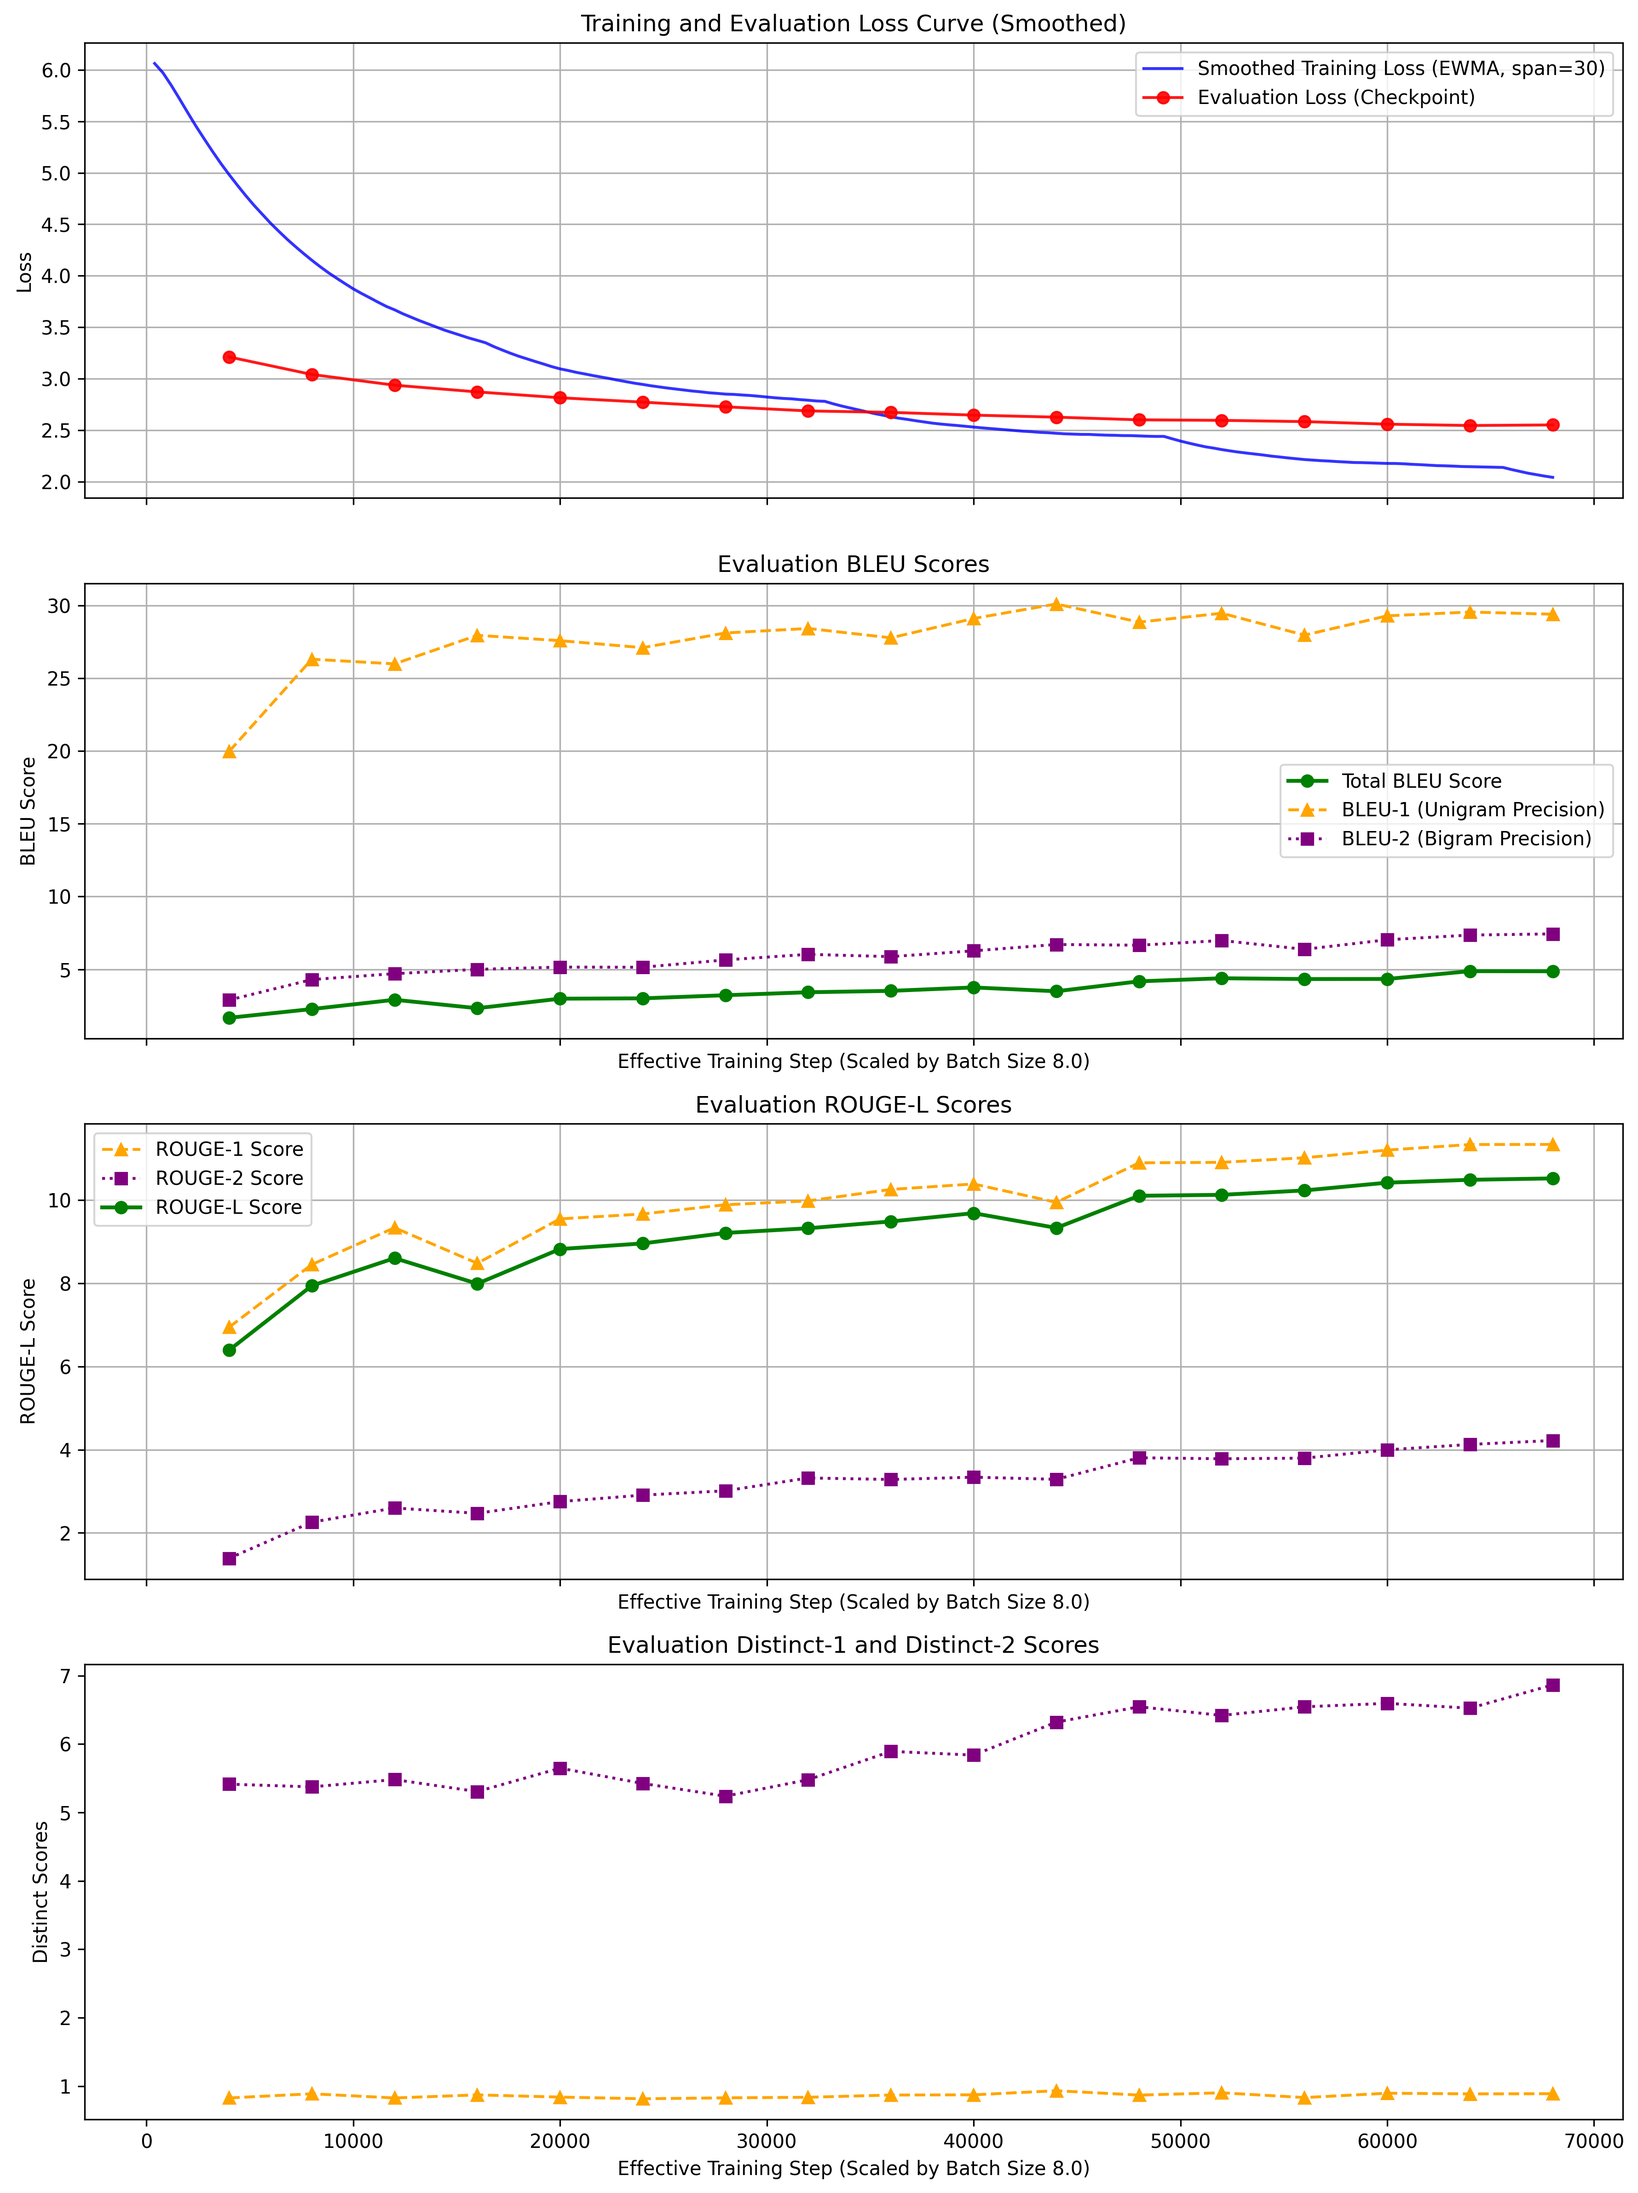
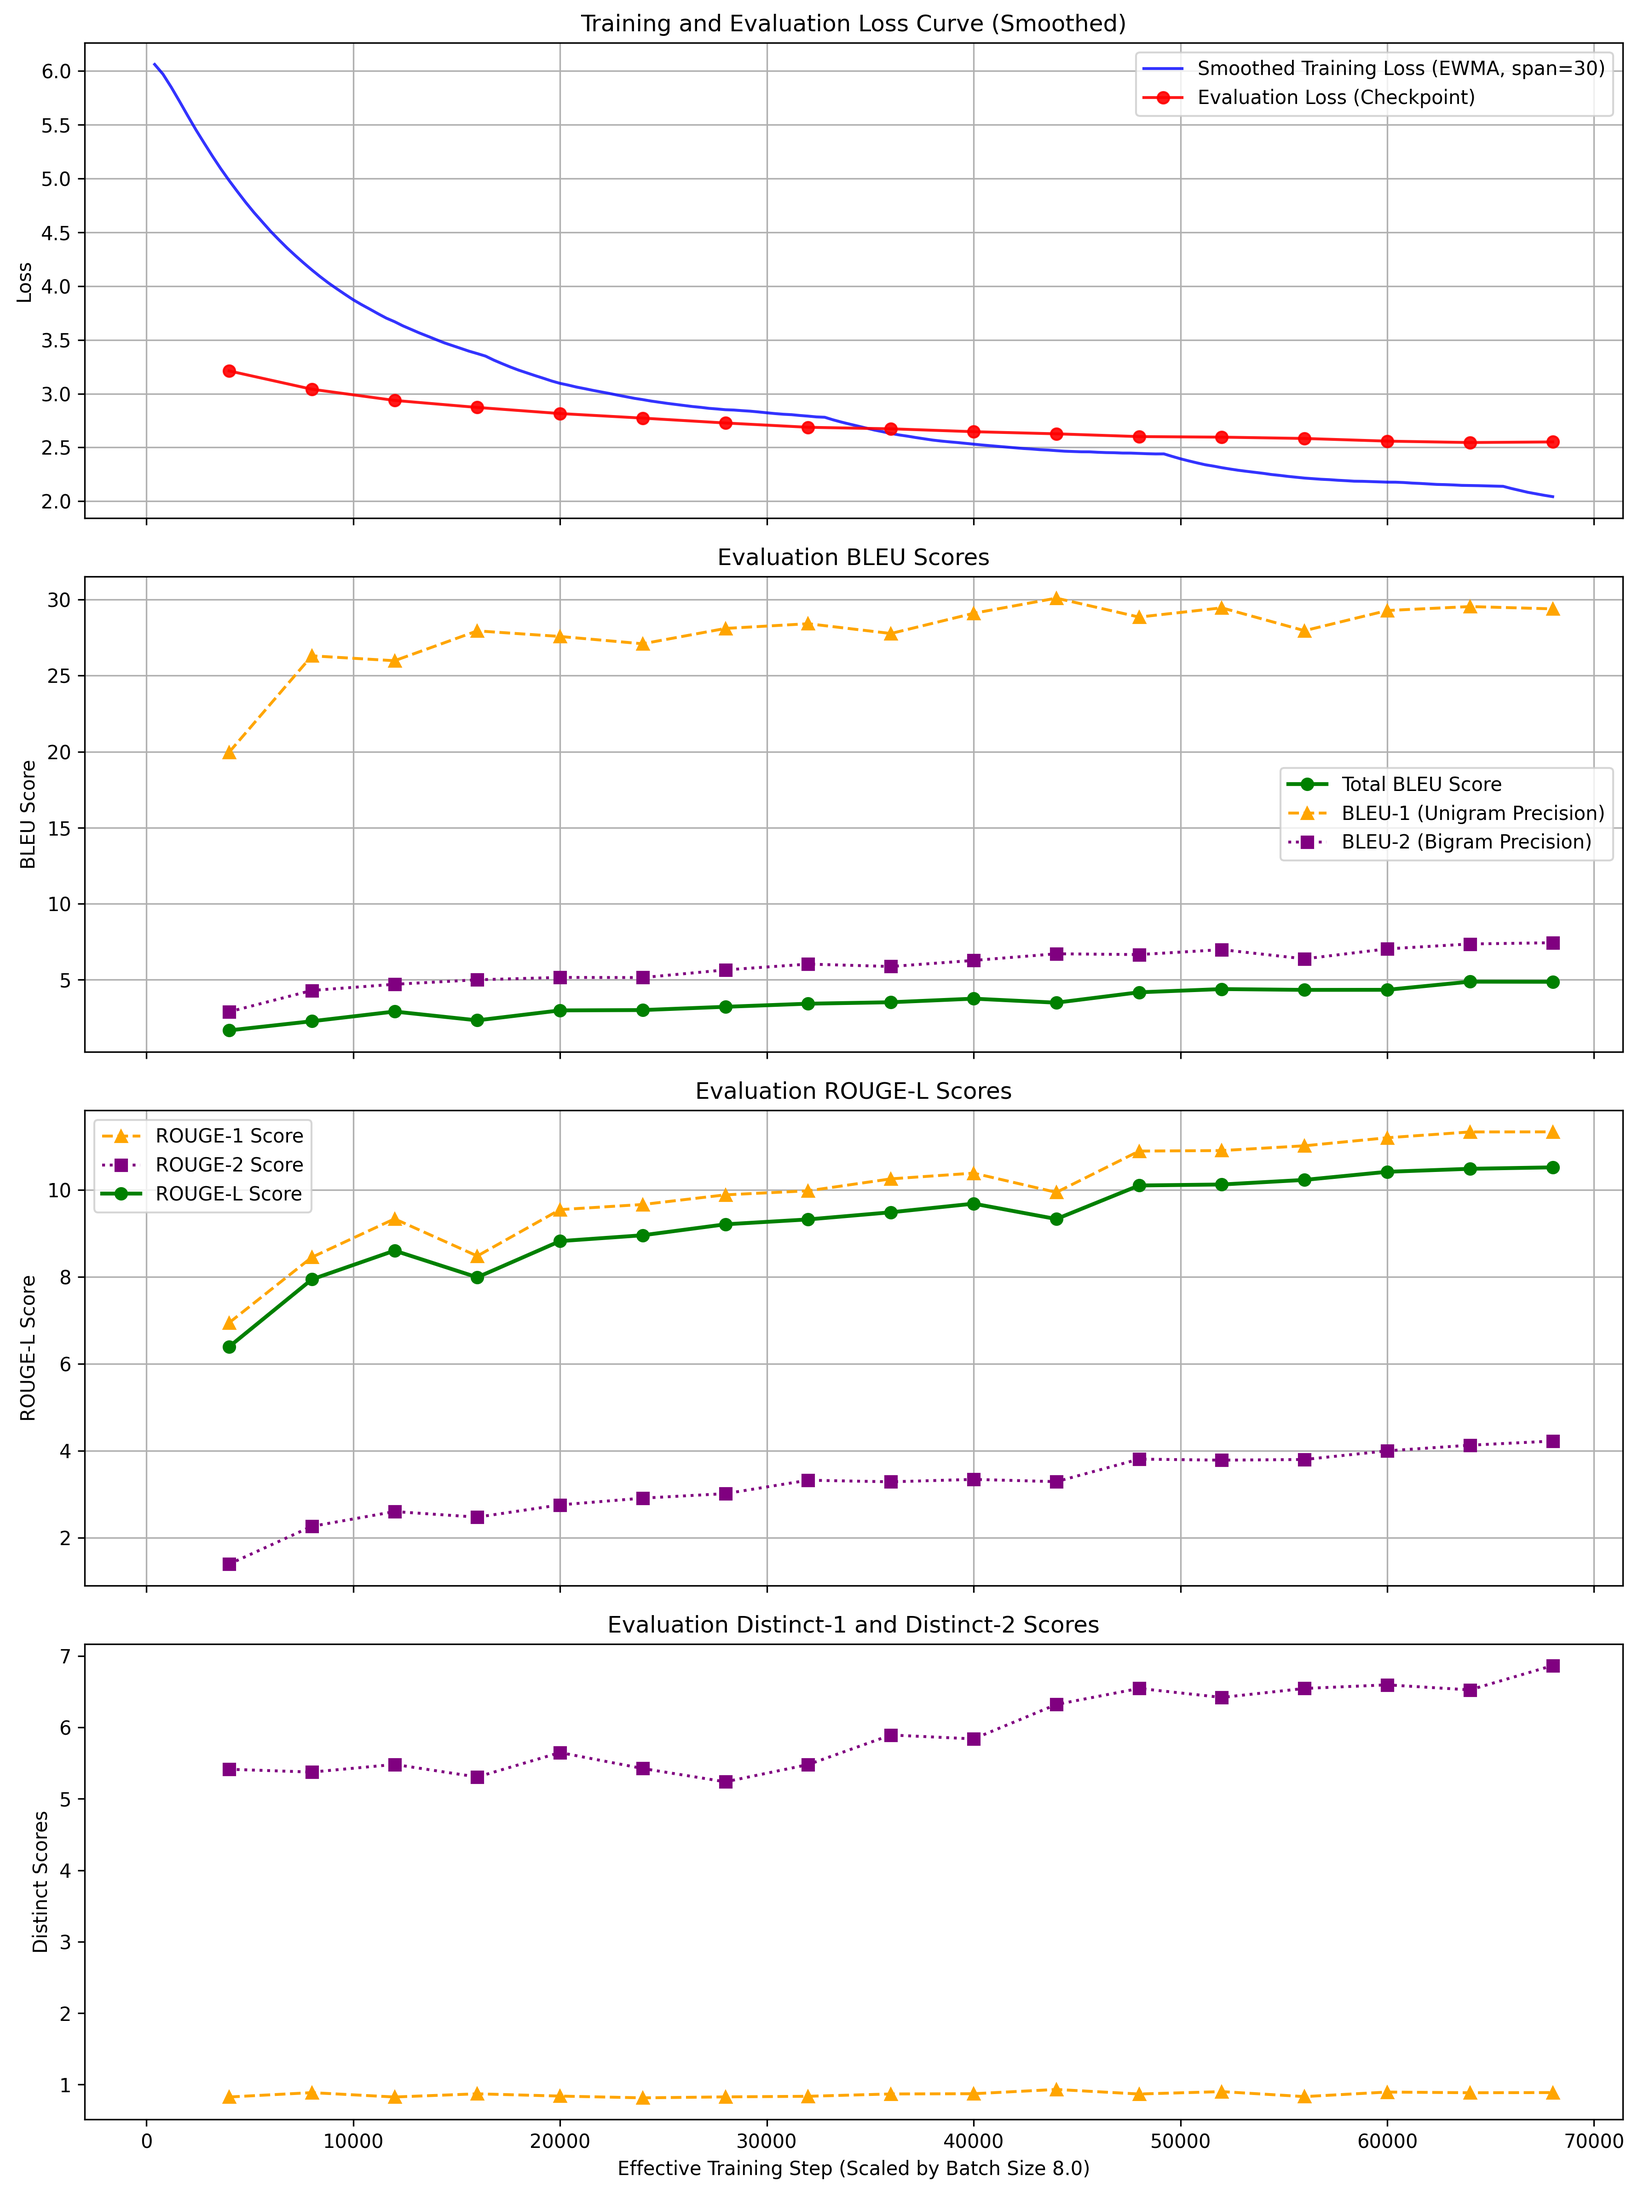
fix loss_curves

diff --git a/finetune_notationed.py b/finetune_notationed.py
@@ -440,8 +440,8 @@ if __name__ == "__main__":
 
     ##ZY 251104 增加功能 从检查点接着训练 （注意！！ 请在从更新文件前备份自己训练时设置的参数）
     #resume_training_from_checkpoint = "fine_tune_checkpoints/m2m100_1_2b_multilingual"
-    resume_training_from_checkpoint = None
-    #resume_training_from_checkpoint = "./fine_tune_checkpoints/mt5_finetune/checkpoint-10000" #从某个特定检查点继续训练
+    #resume_training_from_checkpoint = None
+    resume_training_from_checkpoint = "fine_tune_checkpoints/m2m100_1_2b_multilingual/checkpoint-8500" #从某个特定检查点继续训练
 
     ## 你可以在CMD/bash用huggingface-cli下载，也可以直接把模型名称填到model_name_or_path里面
     ## huggingface-cli download google/mt5-base --local-dir ./models

diff --git a/loss_curves.py b/loss_curves.py
@@ -71,7 +71,7 @@ ax1.grid(True)
 
 # --- 子图 2: BLEU 指标曲线 ---
 ax2.set_title('Evaluation BLEU Scores')
-ax2.set_xlabel(f'Effective Training Step (Scaled by Batch Size {train_batch_size})')
+#与后续公用x轴
 ax2.set_ylabel('BLEU Score')
 if not eval_df.empty:
     # 绘制 eval_bleu (总分数)
@@ -101,7 +101,6 @@ ax2.grid(True)
 
 # --- 子图 3: RoUGE-L 指标曲线 ---
 ax3.set_title('Evaluation ROUGE-L Scores')
-ax3.set_xlabel(f'Effective Training Step (Scaled by Batch Size {train_batch_size})')
 ax3.set_ylabel('ROUGE-L Score')
 if not eval_df.empty:
     # 绘制 eval_rouge1 (ROUGE-1 分数)
